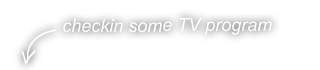
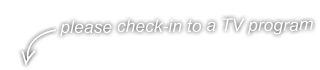
checkin popup

diff --git a/Resources/ui/common/Cs_CheckinMainWindow.js b/Resources/ui/common/Cs_CheckinMainWindow.js
@@ -223,6 +223,30 @@ CheckinMainWindow = function (_tvprogramData, _containingTab){
 	
 	var checkin = CheckinModel.checkin_isCheckin(_tvprogramData.eventId,myUserId);
 	
+	var checkinPopup = function(){
+		var popupView = Ti.UI.createView({
+			backgroundColor: 'transparent',
+			backgroundImage: 'images/checkin/checkin_success.png',
+			top: 100,
+			height: 96, width: 243,
+			zIndex: 500,
+		});
+		var popupMessage = Ti.UI.createLabel({
+			text: 'Checkin to '+_tvprogramData.programTitle+' completed. You just earned 5 points!',
+			color: '#262a21',
+			font: {fontSize: 14},
+			top: 2,
+			textAlign: 'center',
+			verticalAlign: 'top',
+			width: 225, height: 60,
+		});
+		popupView.add(popupMessage);
+		self.add(popupView);
+		 setTimeout(function() {
+			self.remove(popupView);
+		},5000);
+	}
+	
 	//Checkin Button
 	if(checkin === false){
 		messageboardView.touchEnabled = false;
@@ -241,6 +265,8 @@ CheckinMainWindow = function (_tvprogramData, _containingTab){
 			} 
 			
 			if(checkinEnable) {	
+				checkinPopup();
+				//changeImage of checkin here
 				remote.backgroundImage = 'images/checkin/checkin_remote.png';
 				checkinView.touchEnabled = false;
 				messageboardView.touchEnabled = true;
@@ -265,7 +291,7 @@ CheckinMainWindow = function (_tvprogramData, _containingTab){
 				CheckinACS.checkinACS_createCheckin(checkinData,checkinId);//UPDATE DONE:)
 				ActivityACS.activityACS_createMyActivity(activityData,activityId);		
 				
-				//done after adding to acs
+				// done after adding to acs
 				PointACS.pointACS_createPoint(leaderboardData,_tvprogramData.eventId,'checkin');
 				LeaderBoardACS.leaderACS_updateUserInfo(leaderboardId,leaderboardData.point);
 				

diff --git a/Resources/ui/common/Pf_BadgeDetailsWindow.js b/Resources/ui/common/Pf_BadgeDetailsWindow.js
@@ -15,11 +15,11 @@ BadgeDetailWindow = function (_badge){
 	
 	var badgeImg = Ti.UI.createImageView({
 		height: 200, width: 200,
-		top: 35,
+		top: 25,
 	});
 	var badgeTitle = Ti.UI.createLabel({
 		font: {fontSize: 16, fontWeight: 'bold'},
-		top: 245,
+		top: 225,
 		textAlign: 'center',
 		height: 30,
 		width: 220,
@@ -27,22 +27,23 @@ BadgeDetailWindow = function (_badge){
 		shadowColor: '#026490'
 	});
 	var badgeCons = Ti.UI.createLabel({
-		top: 290, 
+		top: 250, 
 		height: 30,
 		width: 220,
 		color: '#999',
-		font: {fontSize: 12}
+		font: {fontSize: 13, fontWeight:'bold'},
+		textAlign: 'center'
 	});	
 	var badgeDesc = Ti.UI.createLabel({
-		top: 330, left: 5,
-		width: 220,
+		top: 285, left: 10,
+		width: 210,
 		height: 'auto',
-		color: '#999',
-		font: {fontSize: 12}
+		color: '#d0d0d0',
+		font: {fontSize: 14}
 	});	
 	
 	var badgeWinClose = Ti.UI.createButton({
-		bottom: 45,
+		bottom: 50,
 		width: 200,
 		height: 30,
 		title: 'close'
@@ -78,10 +79,9 @@ BadgeDetailWindow = function (_badge){
 		if(_unlock===1){
 			badgeCons.text = 'Congratulations on Your Badge!';
 			badgeDesc.text = _newDesc;
-			badgeCons.left = 5;	
 		}
 		else{
-			badgeCons.text = 'You have not unlock this badge yet';
+			badgeCons.text = 'You haven\'t unlock this badge.';
 			badgeDesc.text = _newDesc;
 		}
 	};

diff --git a/Resources/ui/common/Pf_ProfileMainWindow.js b/Resources/ui/common/Pf_ProfileMainWindow.js
@@ -16,9 +16,10 @@ function ProfileMainWindow(_id,_status) {
 	
 	var self = Titanium.UI.createWindow({
 		barImage: 'images/nav_bg_w_pattern.png',
-		rightNavButton: settingButton,
+	//	rightNavButton: settingButton,
 		barColor:'#489ec3'
 	});			
+	if(_status==='me') self.rightNavButton = settingButton;
 	
 	var nav = Ti.UI.iPhone.createNavigationGroup({
 		window: self
